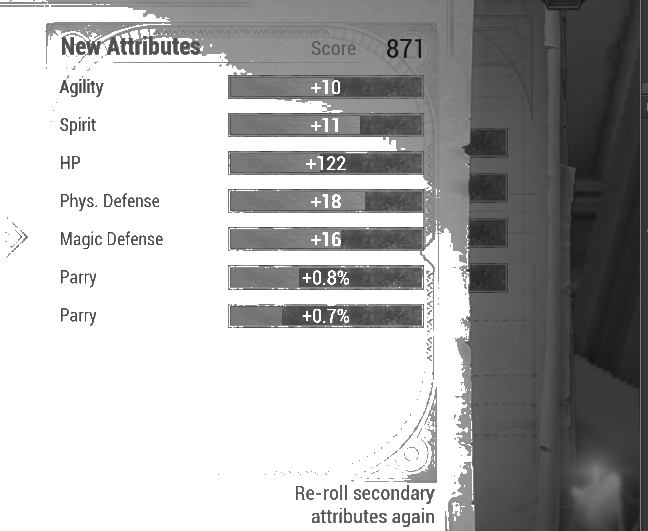
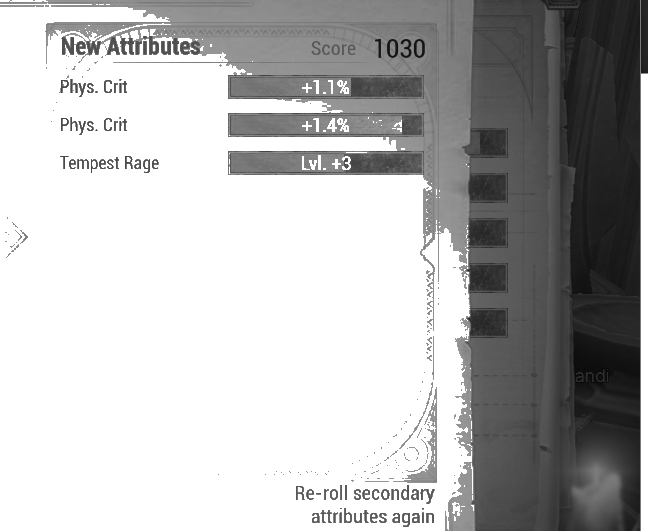
added some formatting and additional stat

diff --git a/src/main/java/ninja/onewaysidewalks/reforger/Main.java b/src/main/java/ninja/onewaysidewalks/reforger/Main.java
@@ -44,9 +44,7 @@ public class Main extends Applet {
         while (!done) {
             List<String> output = ocr();
 
-            System.out.println(output);
-
-            if (meetsCriteria(2, output)) {
+            if (meetsCriteria(3, output)) {
                 System.out.println("found matching reforge");
                 Media ping = new Media(new File("ping.mp3").toURI().toString());
 
@@ -72,12 +70,19 @@ public class Main extends Applet {
         //todo make criteria generic
         int score = 0;
         for(String line : lines) {
-            if (StatUtility.containsParry(line)) {
+            if (StatUtility.containsPhysicalCrit(line)) {
                 score++;
+                System.out.print(String.format(" %s [1],", line));
+            } else if (StatUtility.containsTempestRage(line)) {
+                score++;
+                System.out.print(String.format(" %s [1],", line));
+            } else {
+                System.out.print(String.format(" %s [0],", line));
             }
         }
 
-        System.out.println("Found score of " + score);
+        System.out.println();
+        System.out.println(" ::: Found score of " + score);
 
         return score >= desiredScore;
     }

diff --git a/src/main/java/ninja/onewaysidewalks/reforger/StatUtility.java b/src/main/java/ninja/onewaysidewalks/reforger/StatUtility.java
@@ -19,7 +19,8 @@ public class StatUtility {
     }
 
     public static boolean containsPhysicalCrit(String line) {
-        return line.contains("p") && (line.contains("cri") || line.contains("it"));
+        return line.contains("p") && (line.contains("cri") || line.contains("it"))
+                && !line.contains("magic") && !line.contains("spi") && !line.contains("agi");
     }
 
     public static boolean containsMagicalCrit(String line) {
@@ -59,5 +60,15 @@ public class StatUtility {
         return line.contains("parry")
                 || line.contains("par")
                 || line.contains("arr");
+    }
+
+    public static boolean containsTempestRage(String line) {
+        return (line.contains("rage")
+                || line.contains("temp")
+                || line.contains("tmp")
+                || line.contains("pst")
+                || line.contains("rge")
+                || line.contains("pest"))
+                && !line.contains("dead");
     }
 }
